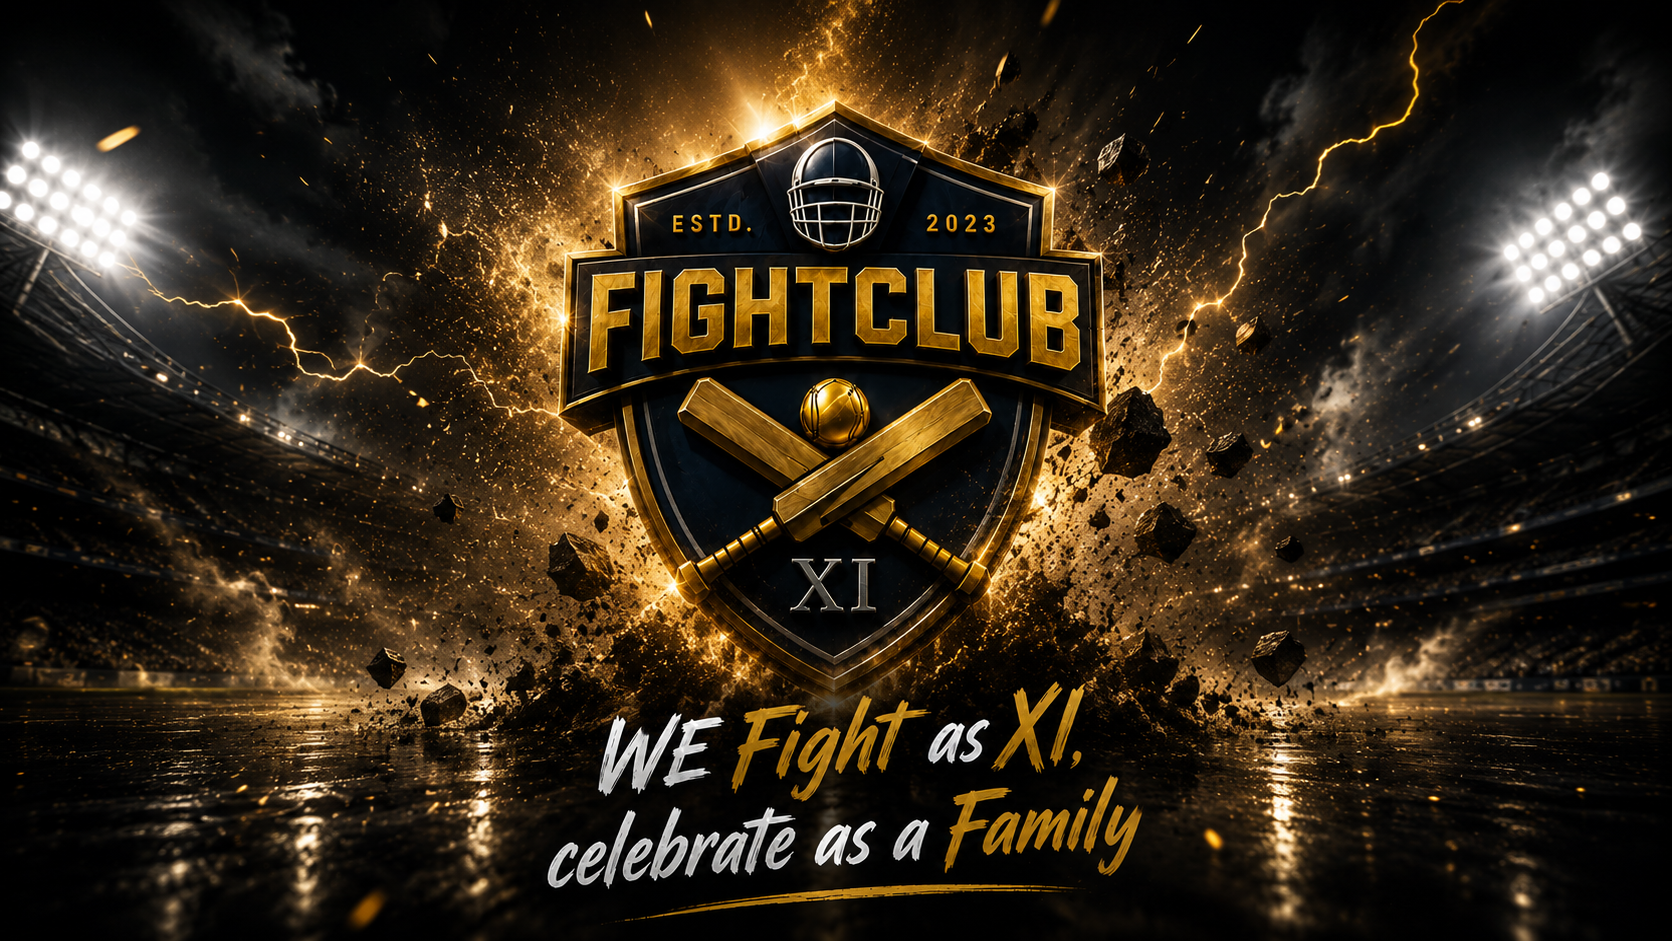
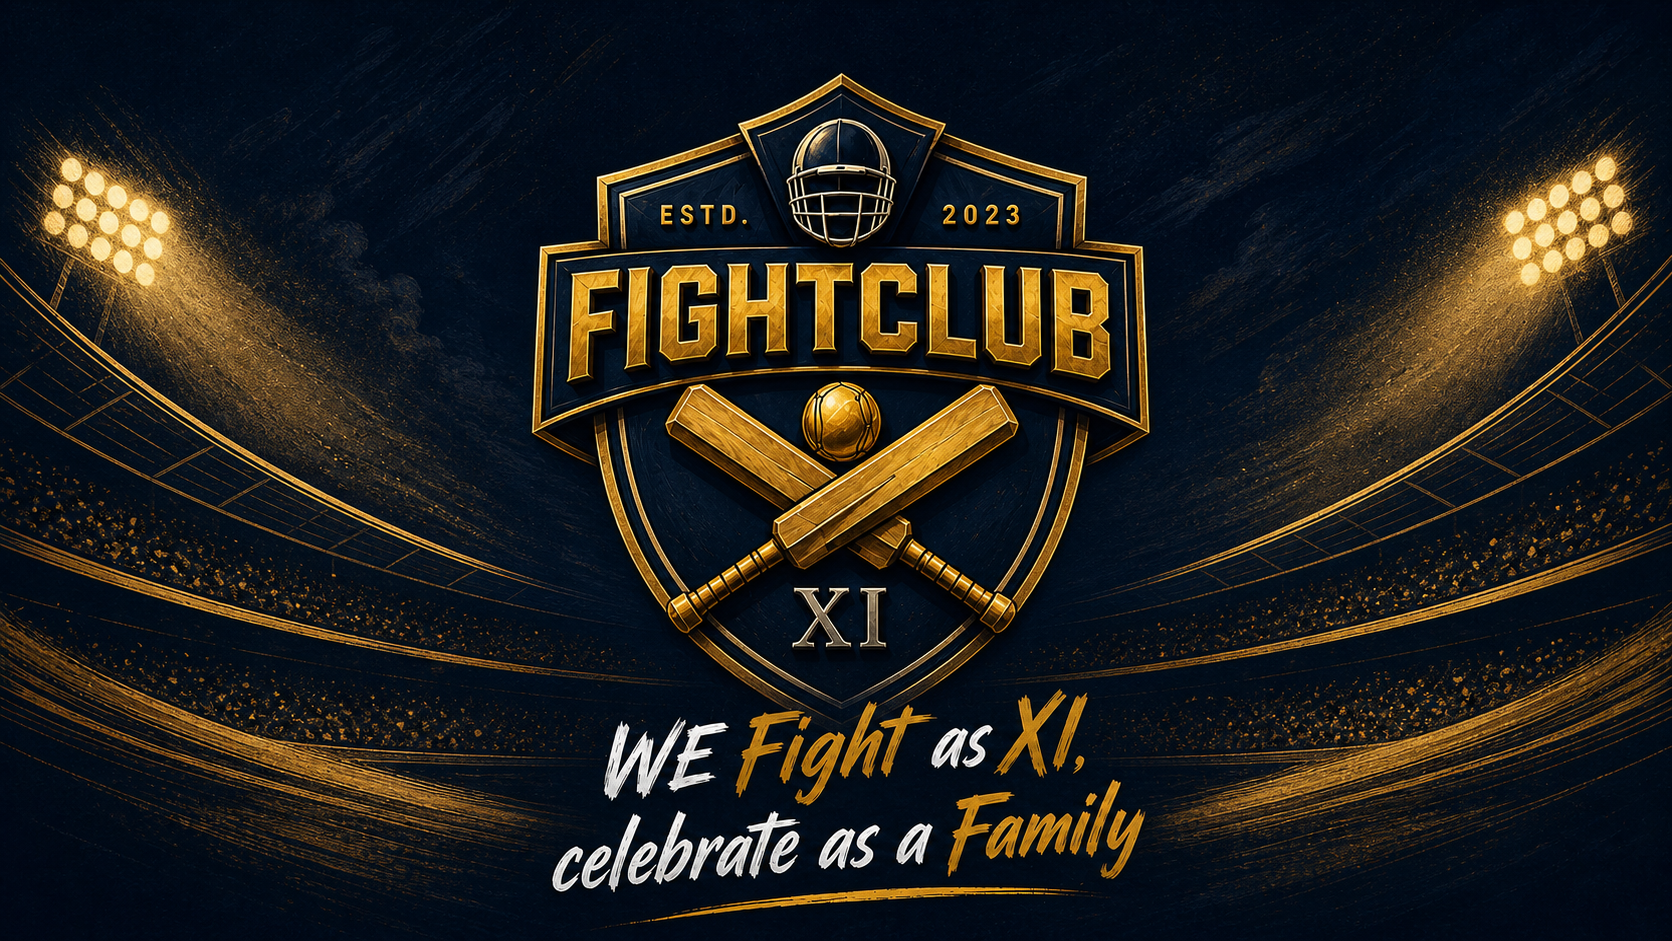
commit(vkandru/redesign-login-experience): refine login hero artwork

diff --git a/frontend/src/App.tsx b/frontend/src/App.tsx
@@ -196,7 +196,7 @@ function App() {
           <div className="login-visual-content">
             <div className="team-lockup"><span className="brand-mark">FC</span><span><strong>FIGHTCLUB</strong><small>XI · ESTD. 2023</small></span></div>
             <span className="kicker">Cricket manager · Administrator access</span>
-            <h1>We fight as XI.<br /><em>We celebrate as a family.</em></h1>
+            <h1>Own every over.<br /><em>Lead the team.</em></h1>
             <p>Bring every player, role, and match moment together in one focused team room.</p>
           </div>
           <div className="login-visual-footer">